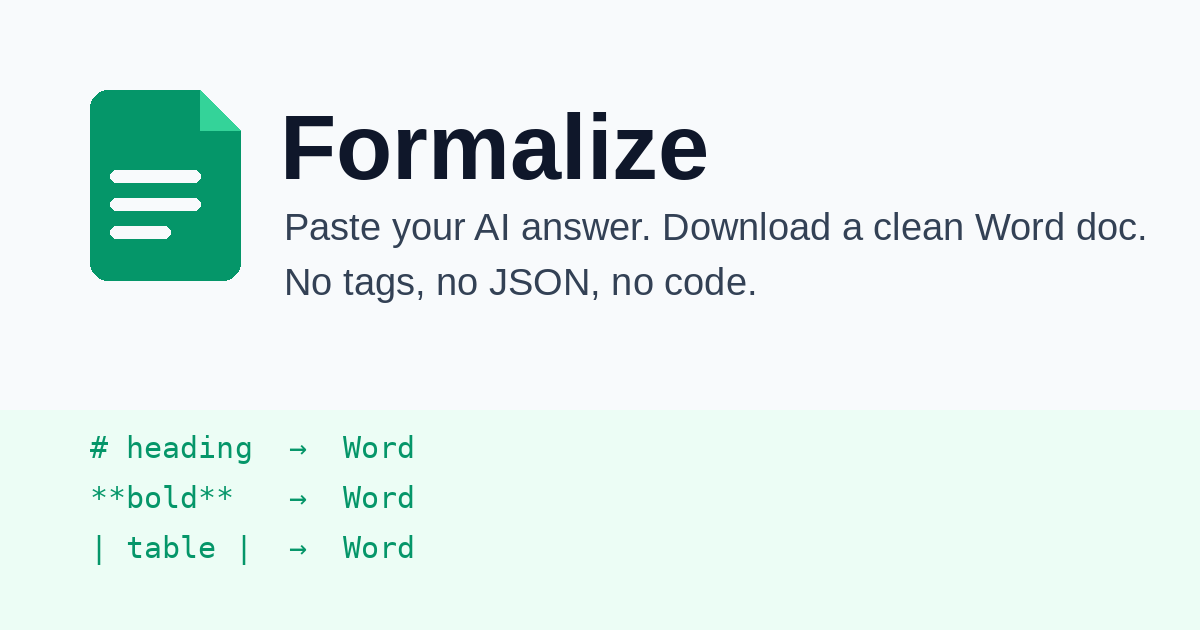
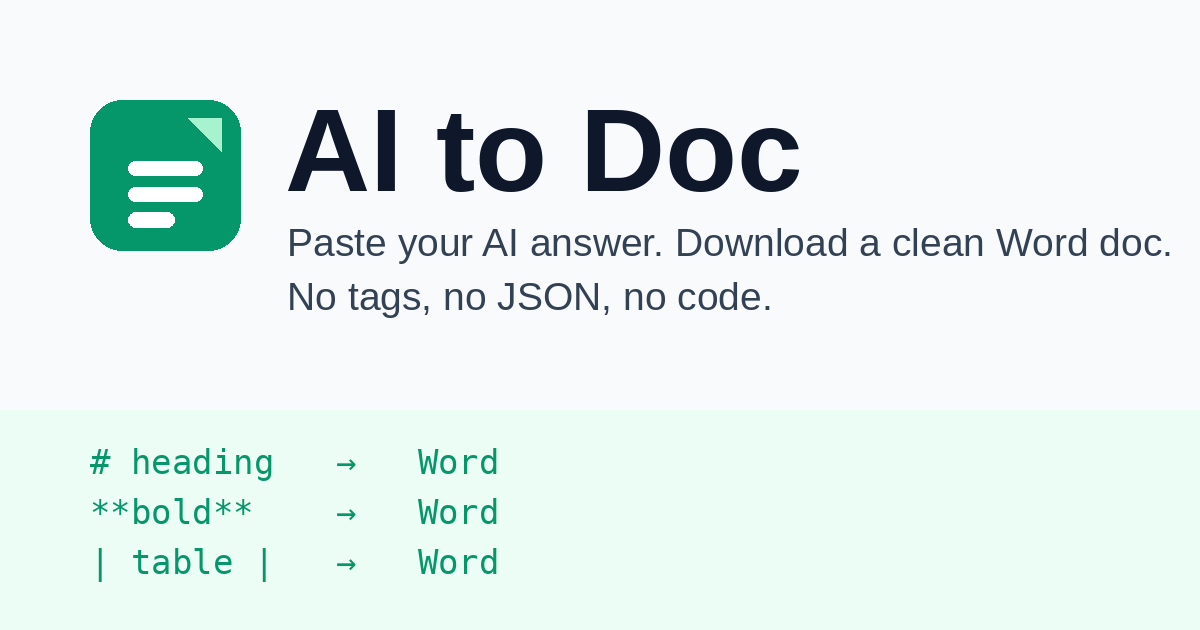
Actualiza imagen social y dominios de ejemplo a la marca AI to Doc
- web/assets/og-image.png: regenerada. La versión anterior mostraba aún
  el nombre "Formalize"; ahora muestra "AI to Doc" con el logo de marca
  vigente (mismo tile que el favicon). Mantiene la composición original
  (subtítulo + banda de código); los textos funcionales siguen citando
  "Word" porque hoy solo convierte a .docx.
- web/api-access.html: los ejemplos api.aitoword.app y hello@aitoword.app
  pasan a api.ai-to-doc.com / hello@ai-to-doc.com para alinearse con el
  dominio real (la API sigue pre-lanzamiento y oculta).

No se tocan identificadores internos "Formalize" (X-Formalize-*,
formalize_live_, formalize_lang, título FastAPI, comentarios de
migraciones) por la regla de CLAUDE.md.

Claude-Session: https://claude.ai/code/session_01523RTC1gRwpLFUoBmT7qtq

Changed region(s): [[0.0617, 0.1206, 0.9867, 0.5127], [0.0617, 0.6937, 0.2467, 0.9349], [0.2775, 0.6937, 0.4317, 0.9048]]

diff --git a/web/api-access.html b/web/api-access.html
@@ -103,7 +103,7 @@
 
   <section class="mb-10">
     <h2 class="text-lg font-bold text-slate-900 mb-2" data-i18n="api.endpointTitle">Endpoint</h2>
-    <pre class="bg-slate-900 text-slate-100 rounded-xl p-4 text-xs overflow-auto">POST https://api.aitoword.app/api/v1/b2b/convert
+    <pre class="bg-slate-900 text-slate-100 rounded-xl p-4 text-xs overflow-auto">POST https://api.ai-to-doc.com/api/v1/b2b/convert
 Content-Type: multipart/form-data</pre>
   </section>
 
@@ -122,7 +122,7 @@ Content-Type: multipart/form-data</pre>
 
   <section class="mb-10">
     <h2 class="text-lg font-bold text-slate-900 mb-2" data-i18n="api.requestTitle">Example request</h2>
-    <pre class="bg-slate-900 text-slate-100 rounded-xl p-4 text-xs overflow-auto"><code>curl -X POST https://api.aitoword.app/api/v1/b2b/convert \
+    <pre class="bg-slate-900 text-slate-100 rounded-xl p-4 text-xs overflow-auto"><code>curl -X POST https://api.ai-to-doc.com/api/v1/b2b/convert \
   -H "X-API-Key: YOUR_API_KEY" \
   -F "markdown=# Quarterly Report
 
@@ -163,7 +163,7 @@ Revenue is up **12%** this quarter.
   <section class="bg-slate-50 border border-slate-200 rounded-2xl p-8 text-center">
     <h2 class="text-xl font-bold text-slate-900 mb-2" data-i18n="api.ctaTitle">Want access?</h2>
     <p class="text-slate-500 text-sm mb-5" data-i18n="api.ctaDesc">Tell us about your use case and we'll set you up with a key.</p>
-    <a href="mailto:hello@aitoword.app" class="inline-block bg-emerald-600 hover:bg-emerald-700 text-white font-bold rounded-lg px-6 py-2.5 text-sm" data-i18n="api.cta">Get API access</a>
+    <a href="mailto:hello@ai-to-doc.com" class="inline-block bg-emerald-600 hover:bg-emerald-700 text-white font-bold rounded-lg px-6 py-2.5 text-sm" data-i18n="api.cta">Get API access</a>
   </section>
 </main>
 
